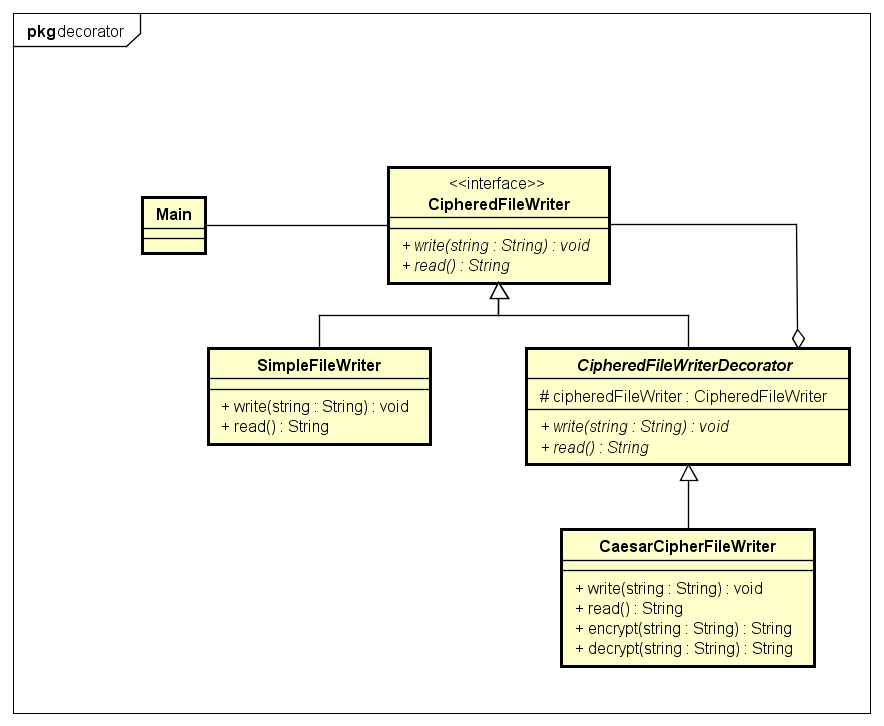
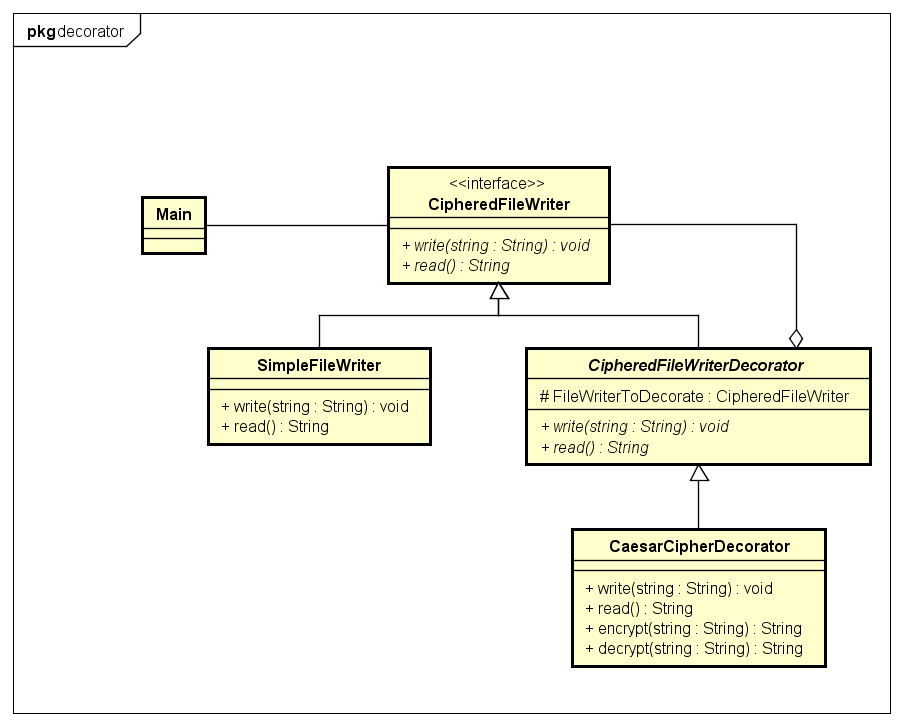
DP06: Changed a name of a class

diff --git a/DP06_decorator/src/decorator/SimpleFileWriter.java b/DP06_decorator/src/decorator/SimpleFileWriter.java
@@ -7,6 +7,10 @@ import java.io.FileWriter;
 import java.io.IOException;
 import java.io.PrintWriter;
 
+/**
+ * A simple file writer.
+ * @author Antti Nieminen
+ */
 public class SimpleFileWriter implements CipheredFileWriter {
 
     private final String file = "important.info";
@@ -26,12 +30,9 @@ public class SimpleFileWriter implements CipheredFileWriter {
     public String read() {
         String line = null;
         try {
-            // FileReader reads text files in the default encoding.
             FileReader fileReader = new FileReader(file);
-            // Always wrap FileReader in BufferedReader.
             BufferedReader bufferedReader = new BufferedReader(fileReader);
             line = bufferedReader.readLine();
-            // Always close files.
             bufferedReader.close();
         } catch (FileNotFoundException ex) {
             System.out.println(ex);

diff --git a/DP06_decorator/src/decorator/CipheredFileWriterDecorator.java b/DP06_decorator/src/decorator/CipheredFileWriterDecorator.java
@@ -2,20 +2,20 @@ package decorator;
 
 public abstract class CipheredFileWriterDecorator implements CipheredFileWriter {
 
-    protected CipheredFileWriter CaesarCipherFileWriterToDecorate;
+    protected CipheredFileWriter FileWriterToDecorate;
 
     public CipheredFileWriterDecorator(CipheredFileWriter CaesarCipherFileWriterToDecorate) {
-        this.CaesarCipherFileWriterToDecorate = CaesarCipherFileWriterToDecorate;
+        this.FileWriterToDecorate = CaesarCipherFileWriterToDecorate;
     }
 
     @Override
     public void write(String string) {
-        CaesarCipherFileWriterToDecorate.write(string);
+        FileWriterToDecorate.write(string);
     }
 
     @Override
     public String read() {
-        return CaesarCipherFileWriterToDecorate.read();
+        return FileWriterToDecorate.read();
     }
 
 }

diff --git a/DP06_decorator/src/decorator/CaesarCipherDecorator.java b/DP06_decorator/src/decorator/CaesarCipherDecorator.java
@@ -1,13 +1,13 @@
 package decorator;
 
-public class CaesarCipherFileWriter extends CipheredFileWriterDecorator {
+public class CaesarCipherDecorator extends CipheredFileWriterDecorator {
     
     /**
      * How much character shift is applied.
      */
     private final int shift = 2;
 
-    public CaesarCipherFileWriter(CipheredFileWriter CaesarCipherFileWriterToDecorate) {
+    public CaesarCipherDecorator(CipheredFileWriter CaesarCipherFileWriterToDecorate) {
         super(CaesarCipherFileWriterToDecorate);
     }
 

diff --git a/DP06_decorator/src/decorator/Main.java b/DP06_decorator/src/decorator/Main.java
@@ -3,7 +3,7 @@ package decorator;
 public class Main {
     
     public static void main(String[] args) {
-        CipheredFileWriter cipheredFileWriter = new CaesarCipherFileWriter(new SimpleFileWriter());
+        CipheredFileWriter cipheredFileWriter = new CaesarCipherDecorator(new SimpleFileWriter());
         cipheredFileWriter.write("The fault, dear Brutus, is not in our stars, but in ourselves.");
         System.out.println(cipheredFileWriter.read());
     }
